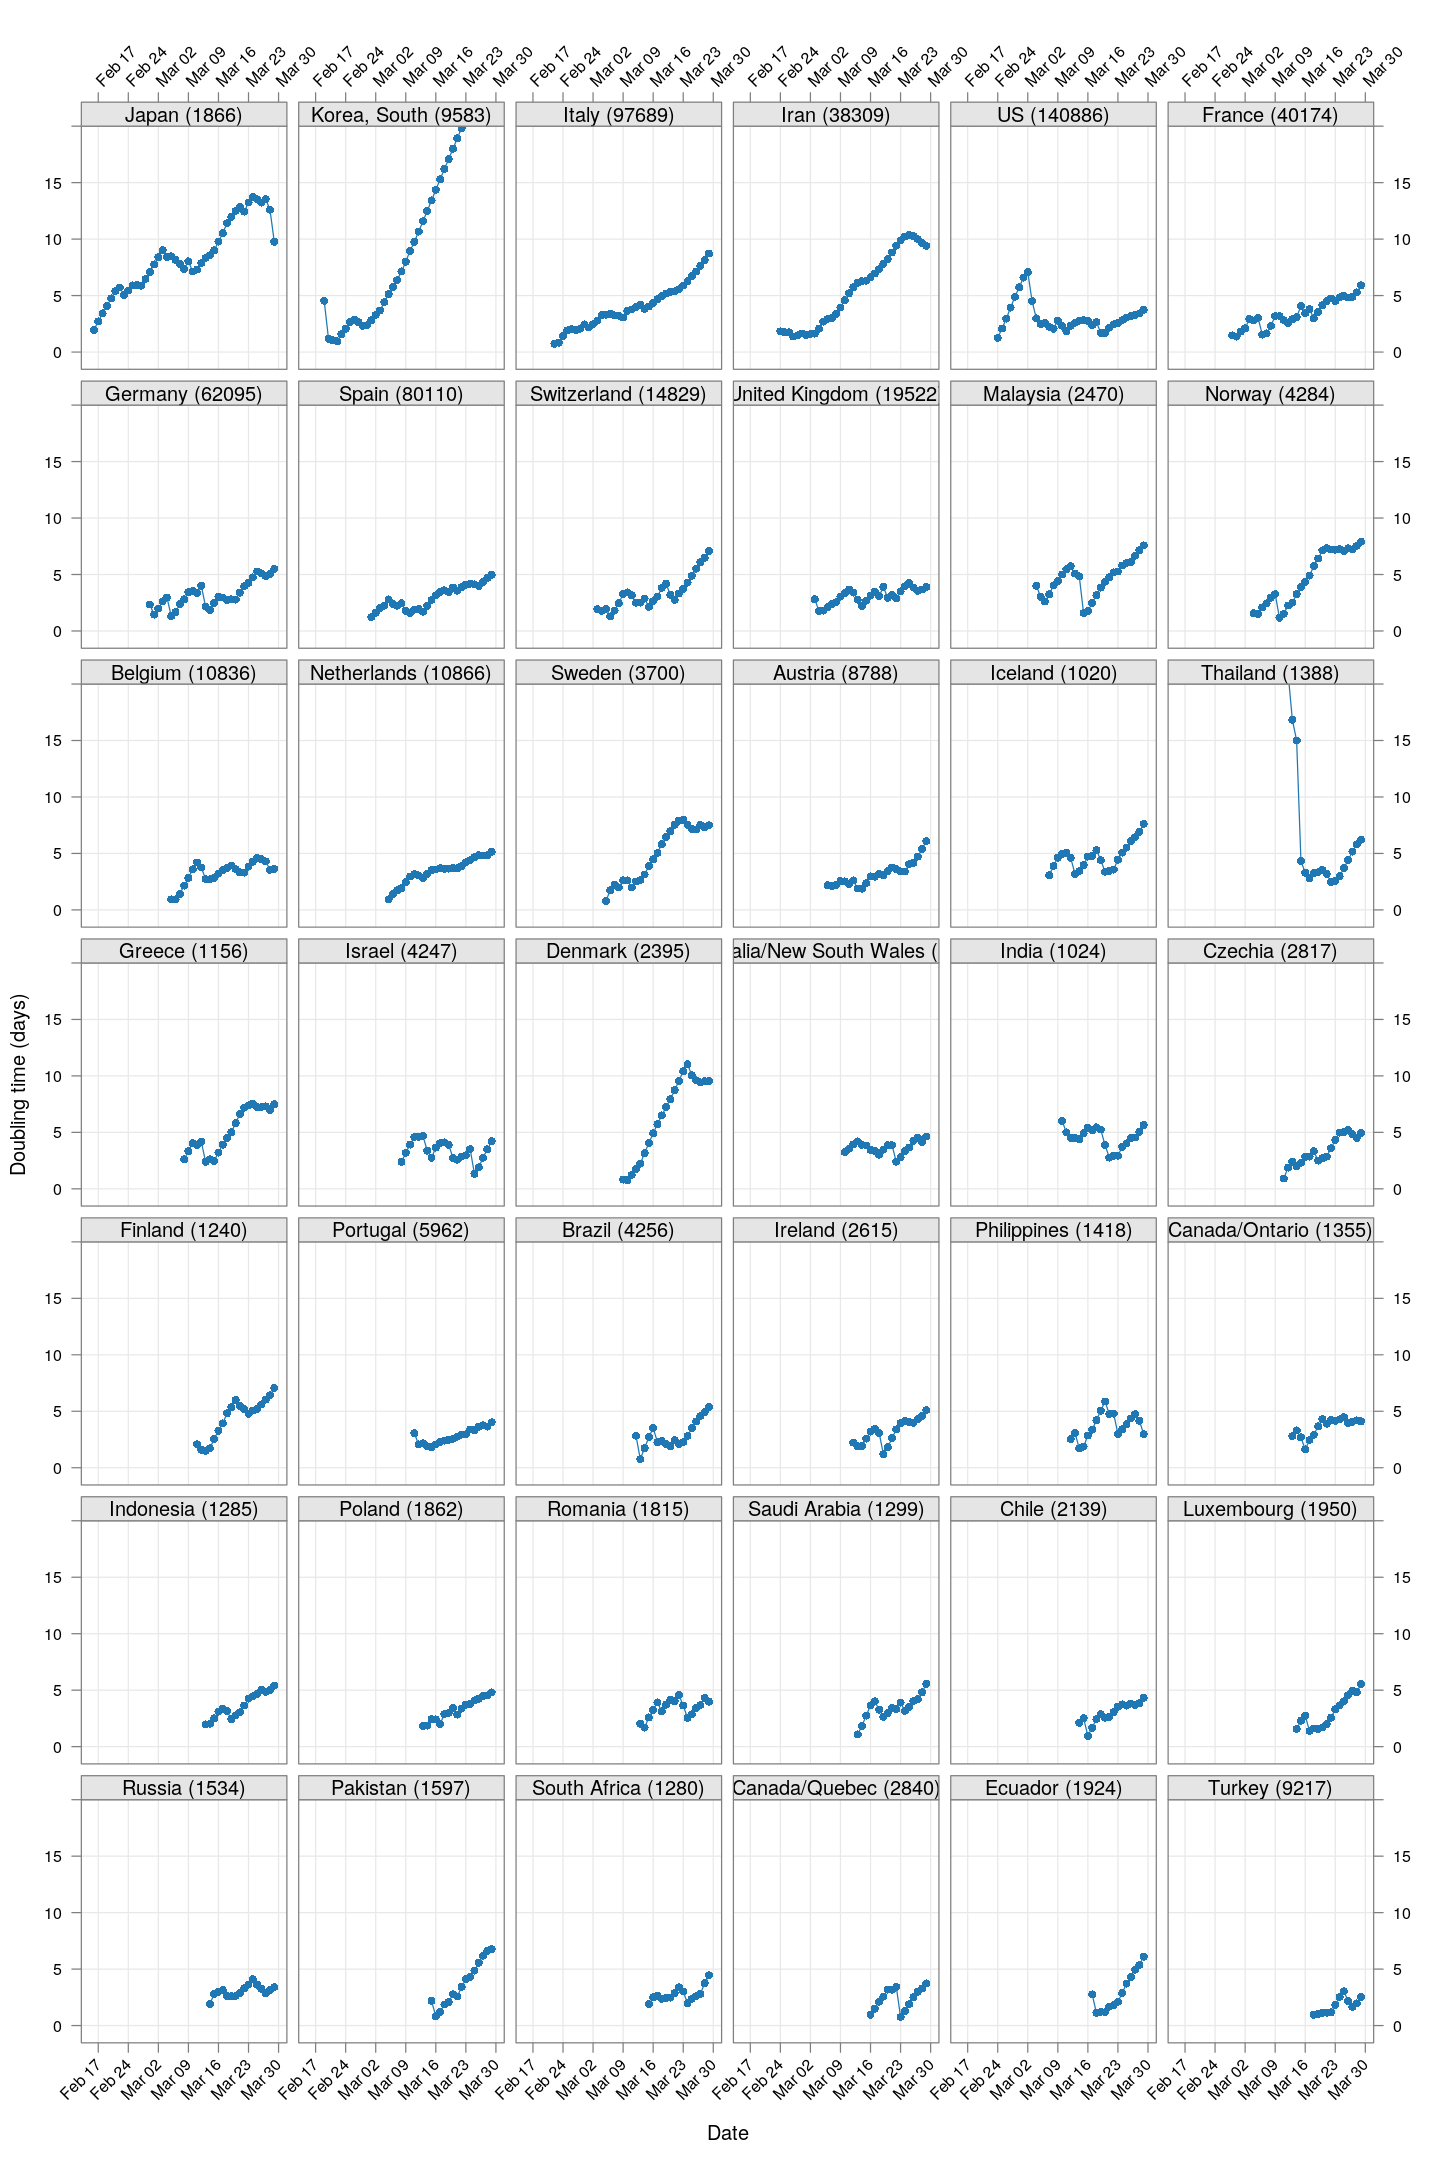
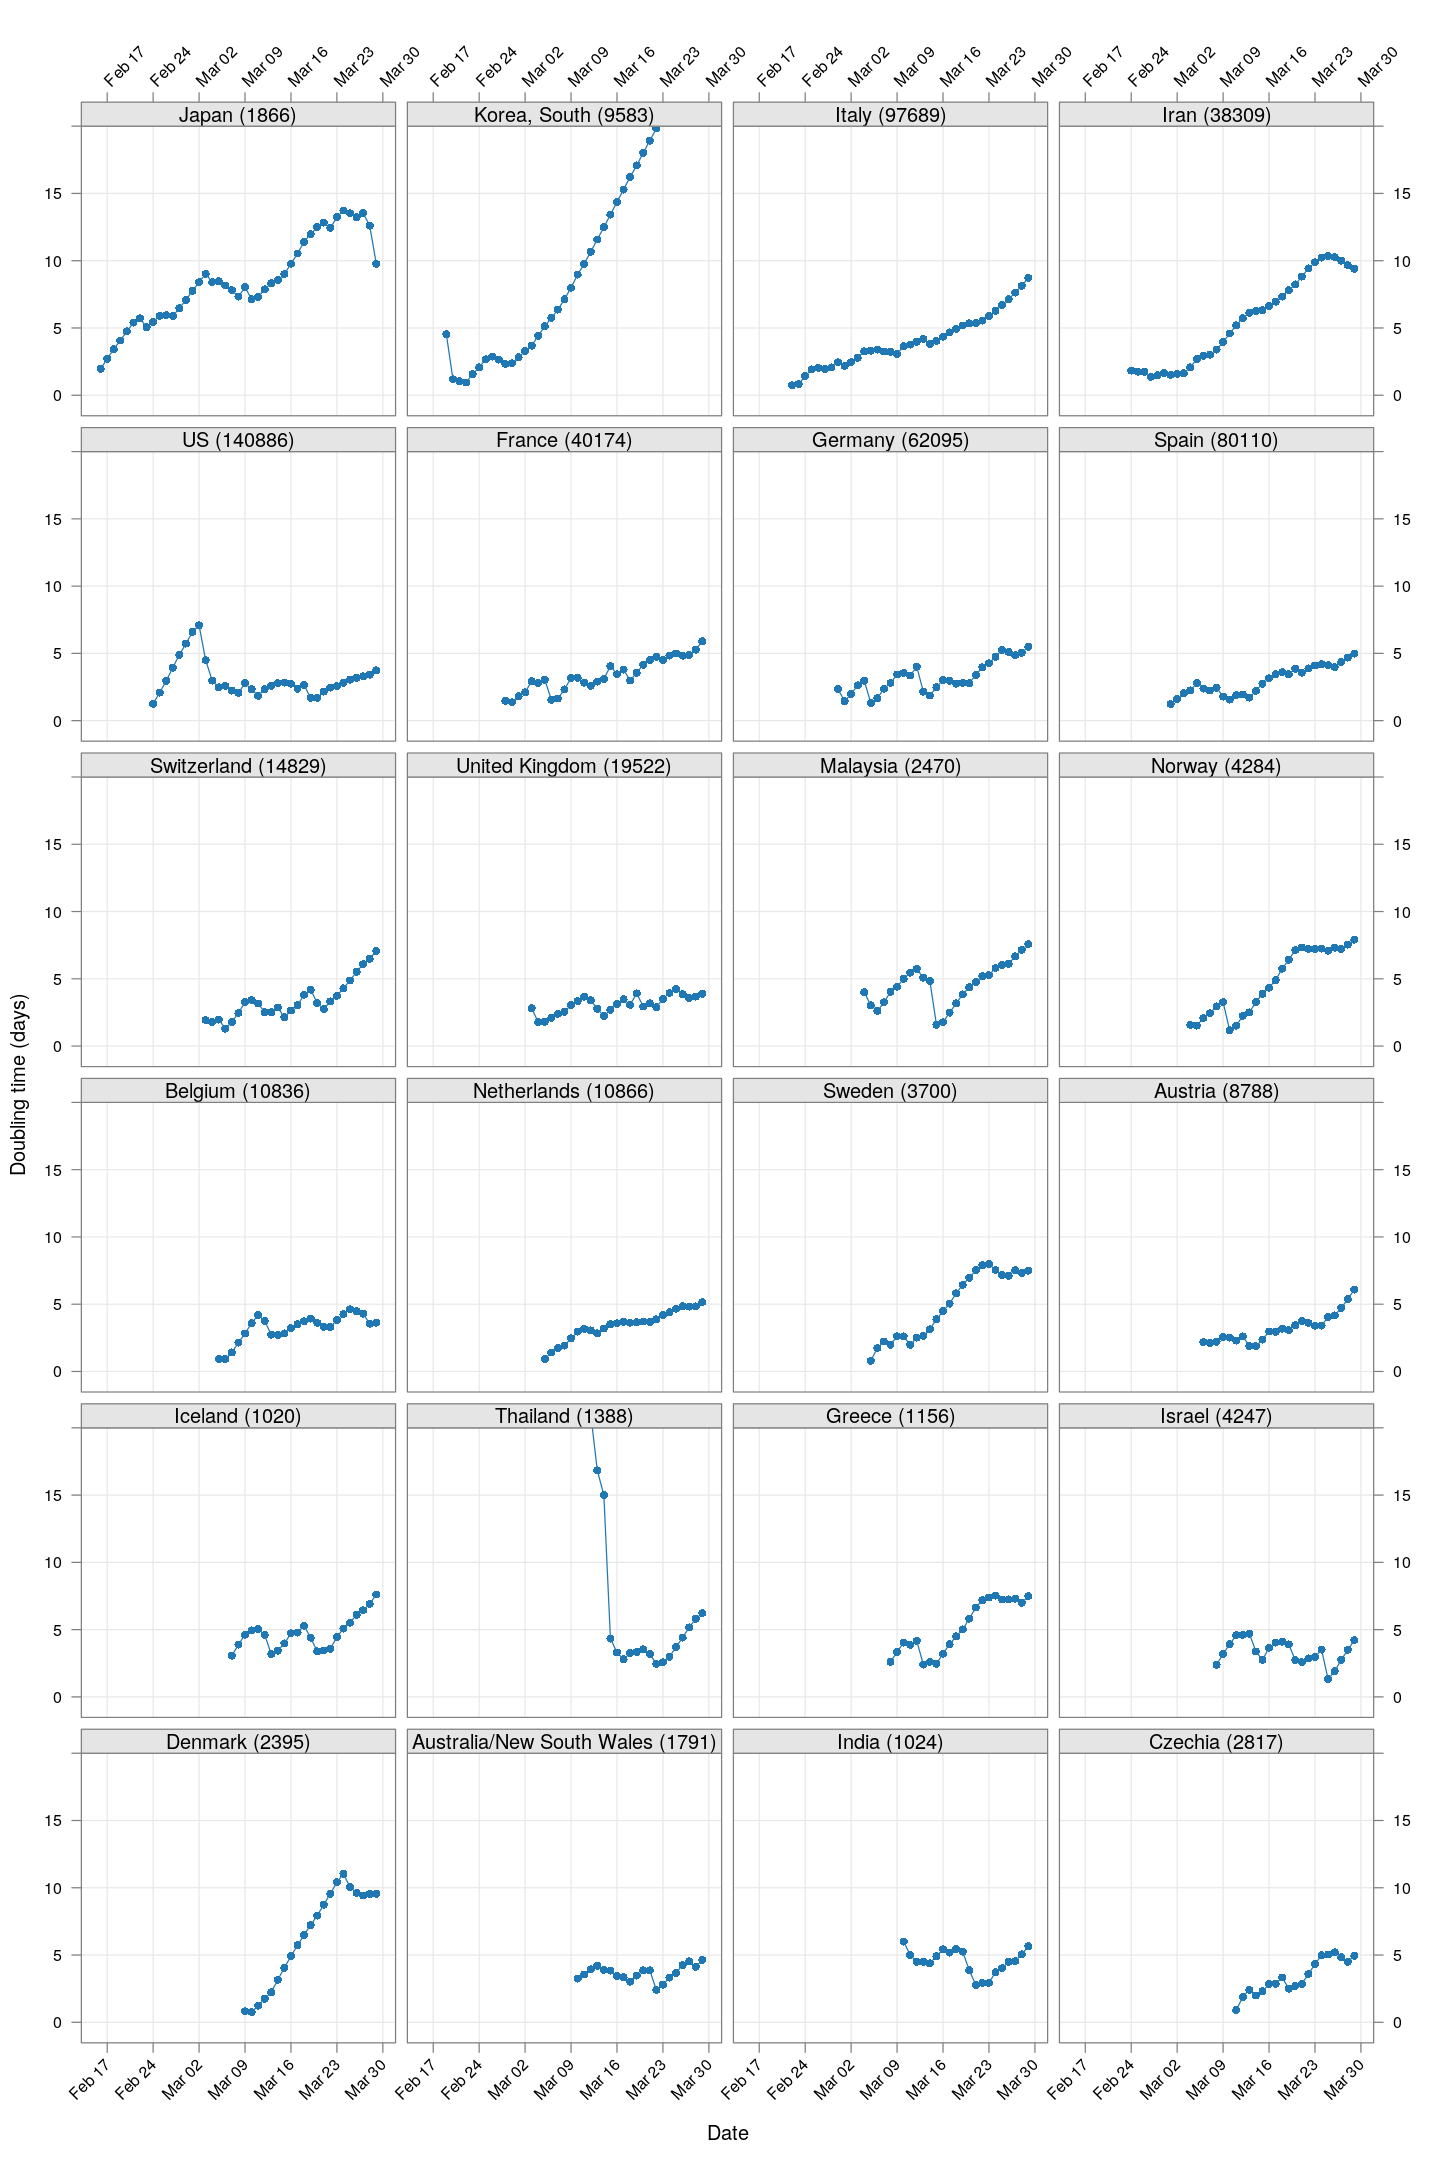
split >1000 plot into two

diff --git a/covid-19/doubling.md b/covid-19/doubling.md
@@ -249,10 +249,10 @@ happening in Singapore and Taiwan.
 
 ### Countries with already widespread infections
 
-Next, let's look at similar plots for other countries (excluding USA)
-where the count is at least 1000. Again, the countries / regions are
-sorted by how long ago the number of cases first exceeded 50, and not
-by total cases.
+Next, let's look at similar plots for other countries where the count
+is at least 1000. Again, the countries / regions are sorted by how
+long ago the number of cases first exceeded 50, and not by total
+cases.
 
 
 
@@ -266,10 +266,10 @@ xyplot(tdouble ~ date | reorder(region, tdouble, function(x) -length(x)),
        data = devolution, type = "o", pch = 16, grid = TRUE,
        ylim = c(NA, 20), xlab = "Date", ylab = "Doubling time (days)",
        scales = list(alternating = 3, x = list(rot = 45)),
-       as.table = TRUE, between = list(x = 0.5, y = 0.5))
+       layout = c(0, 24), as.table = TRUE, between = list(x = 0.5, y = 0.5))
 ```
 
-![plot of chunk unnamed-chunk-7](figures/doubling-unnamed-chunk-7-1.png)
+![plot of chunk unnamed-chunk-7](figures/doubling-unnamed-chunk-7-1.png)![plot of chunk unnamed-chunk-7](figures/doubling-unnamed-chunk-7-2.png)
 
 
 Unfortunately, many of these countries do not show systematic increase
@@ -291,6 +291,7 @@ to reach 50,000 cases between April 4 and April 10.
 
 The countries that seem to be doing well are Denmark, Sweden, and
 Norway, and to a lesser extent Iran and even Italy.
+
 
 
 

diff --git a/index.md b/index.md
@@ -4,9 +4,15 @@ author: Deepayan Sarkar
 ---
 
 
-For now, this site only contains
+For now, this site only contains some analysis of the ongoing COVID-19
+pandemic:
 
-- [Some analysis of the ongoing COVID-19 pandemic](covid-19/doubling)
+- [How the doubling times of cases (and deaths) have changed over time](covid-19/doubling)
+
+- [Estimating the mortality rate](covid-19/deaths)
+
+
+
 
 
 
